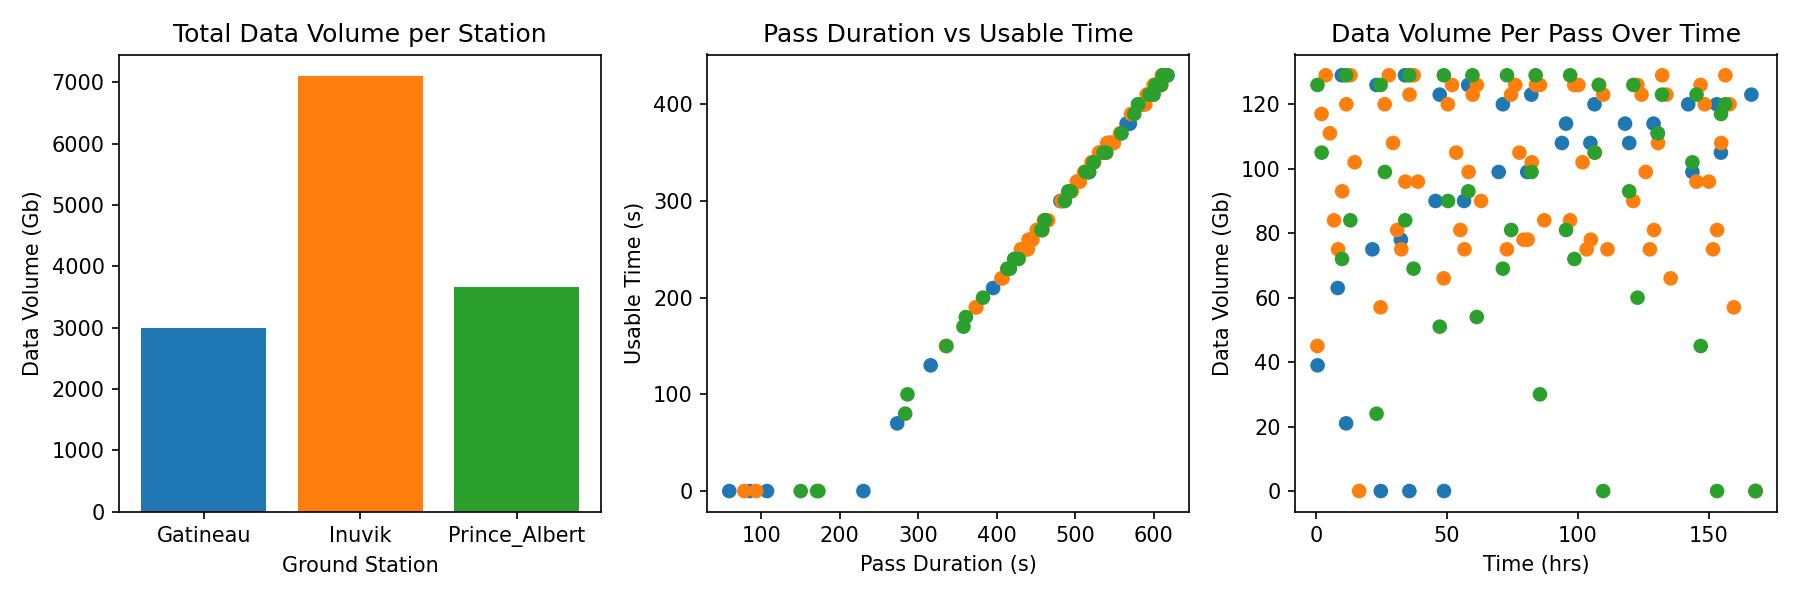
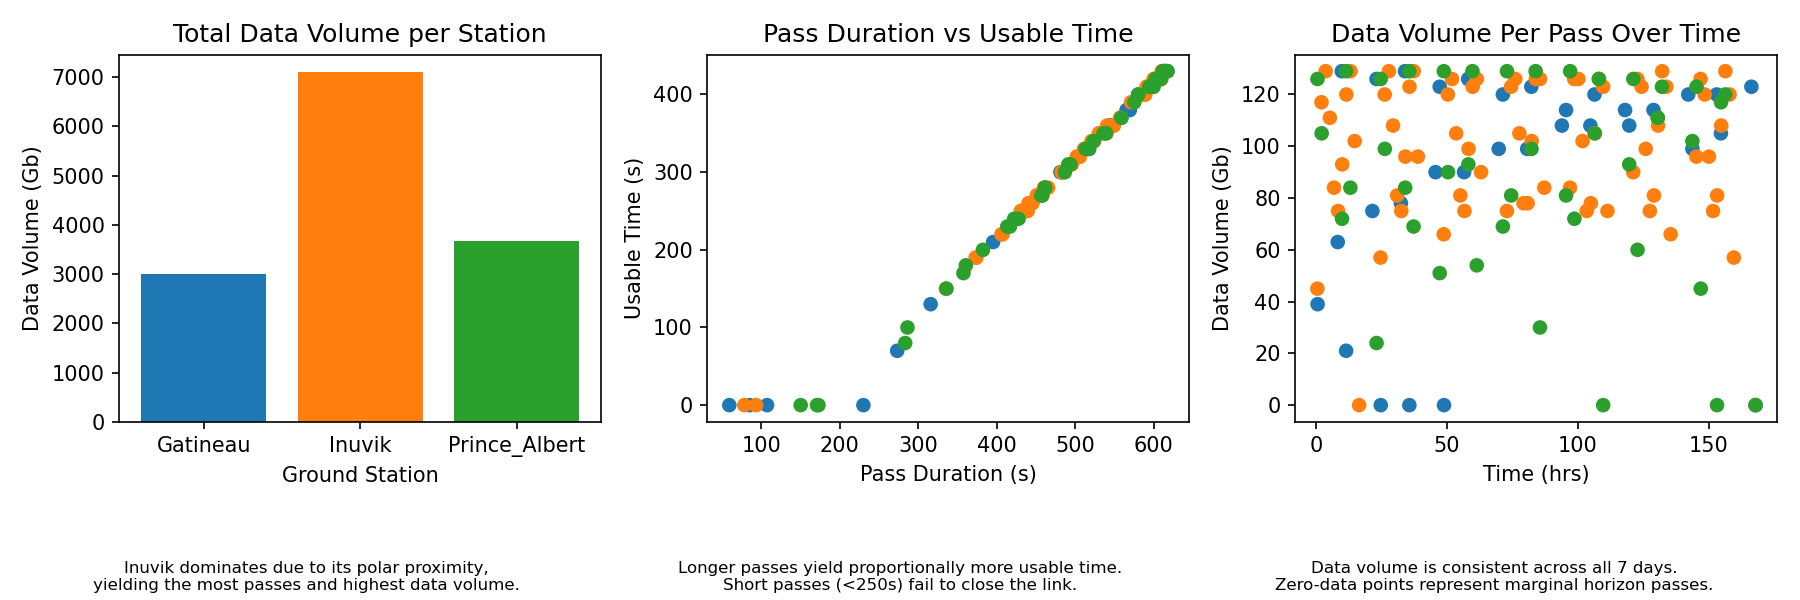
Added descriptions to each plot

diff --git a/link_budget.py b/link_budget.py
@@ -230,6 +230,17 @@ plt.title('Data Volume Per Pass Over Time')
 plt.xlabel('Time (hrs)')
 plt.ylabel('Data Volume (Gb)')
 
-plt.tight_layout()
+#plot summary text
+plt.tight_layout(rect=[0, 0.15, 1, 1])
+
+plt.figtext(0.17, 0.02, "Inuvik dominates due to its polar proximity,\nyielding the most passes and highest data volume.", 
+            ha='center', fontsize=8, wrap=True)
+
+plt.figtext(0.5, 0.02, "Longer passes yield proportionally more usable time.\nShort passes (<250s) fail to close the link.", 
+            ha='center', fontsize=8, wrap=True)
+
+plt.figtext(0.83, 0.02, "Data volume is consistent across all 7 days.\nZero-data points represent marginal horizon passes.", 
+            ha='center', fontsize=8, wrap=True)
+
 plt.savefig('/Users/melodie/Desktop/SAR_Mission_Analysis/link_budget_results.png', dpi=150)
 plt.show()